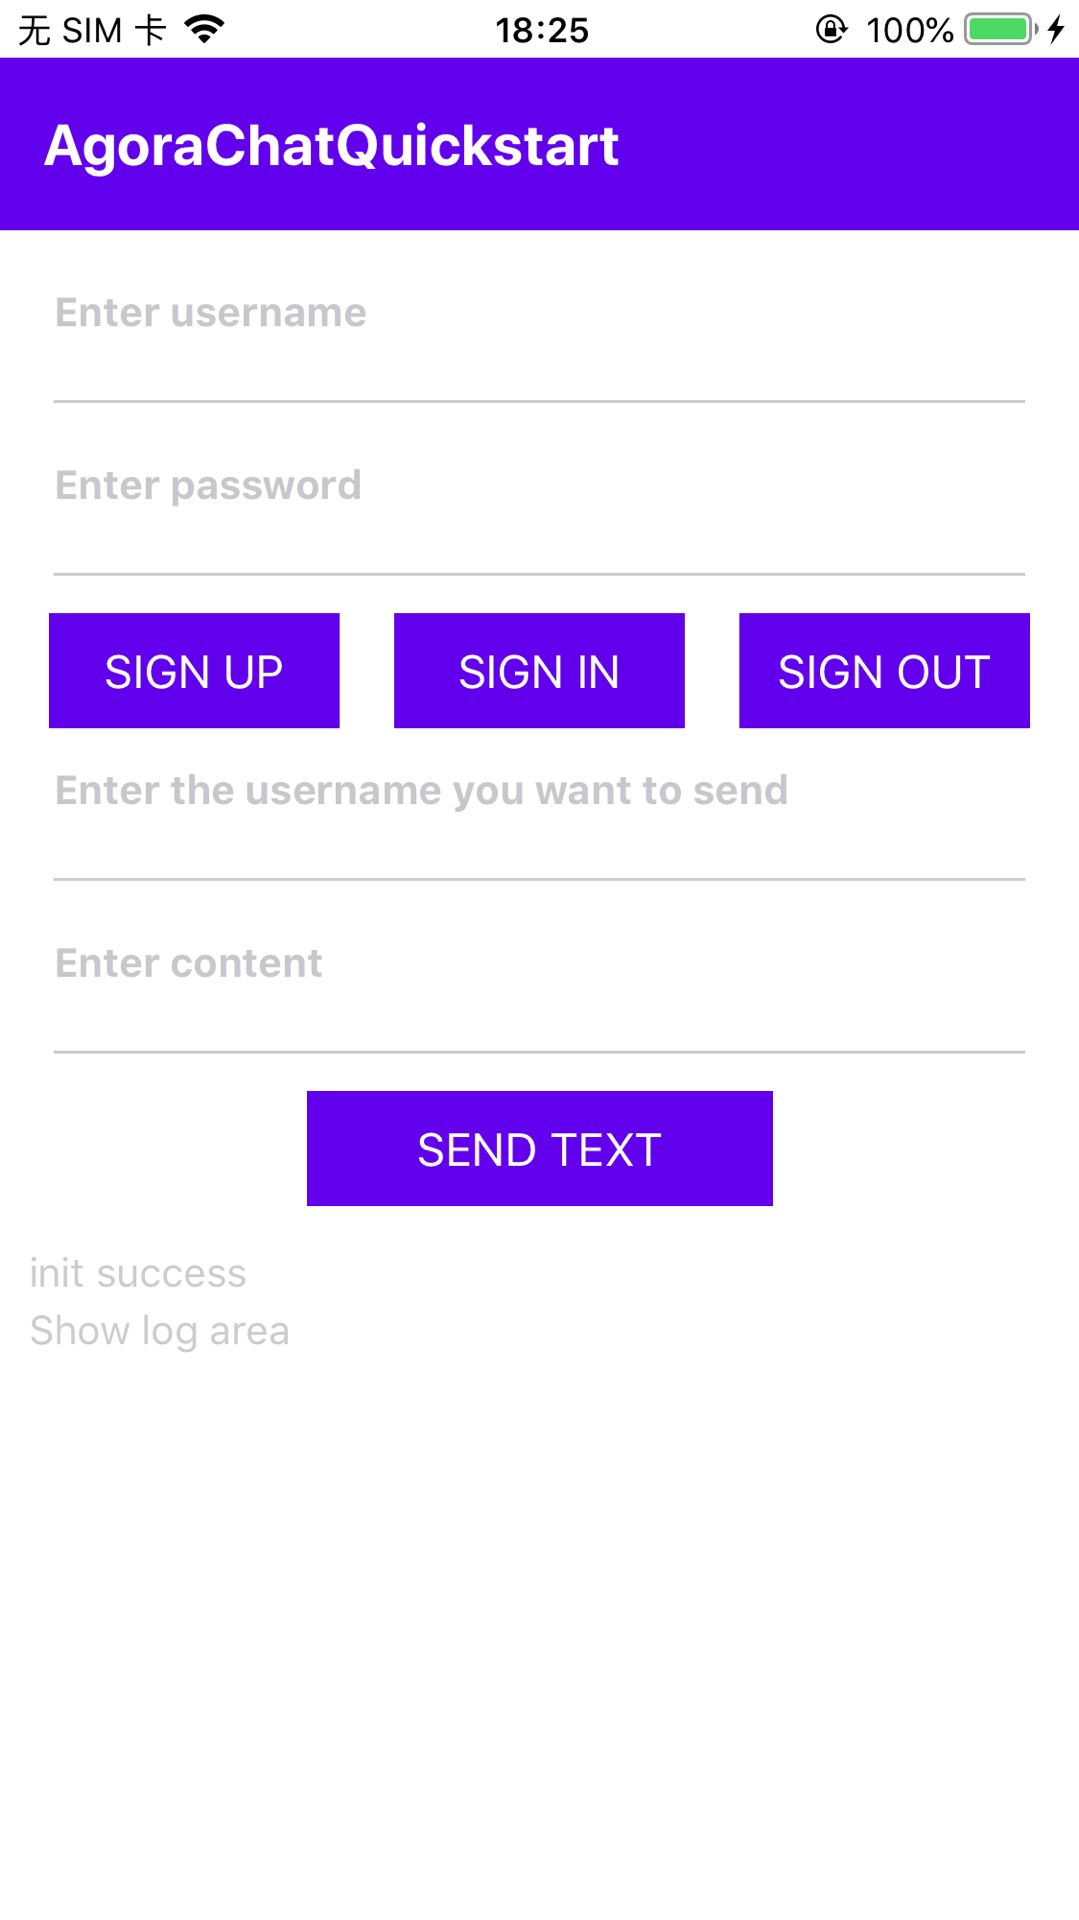
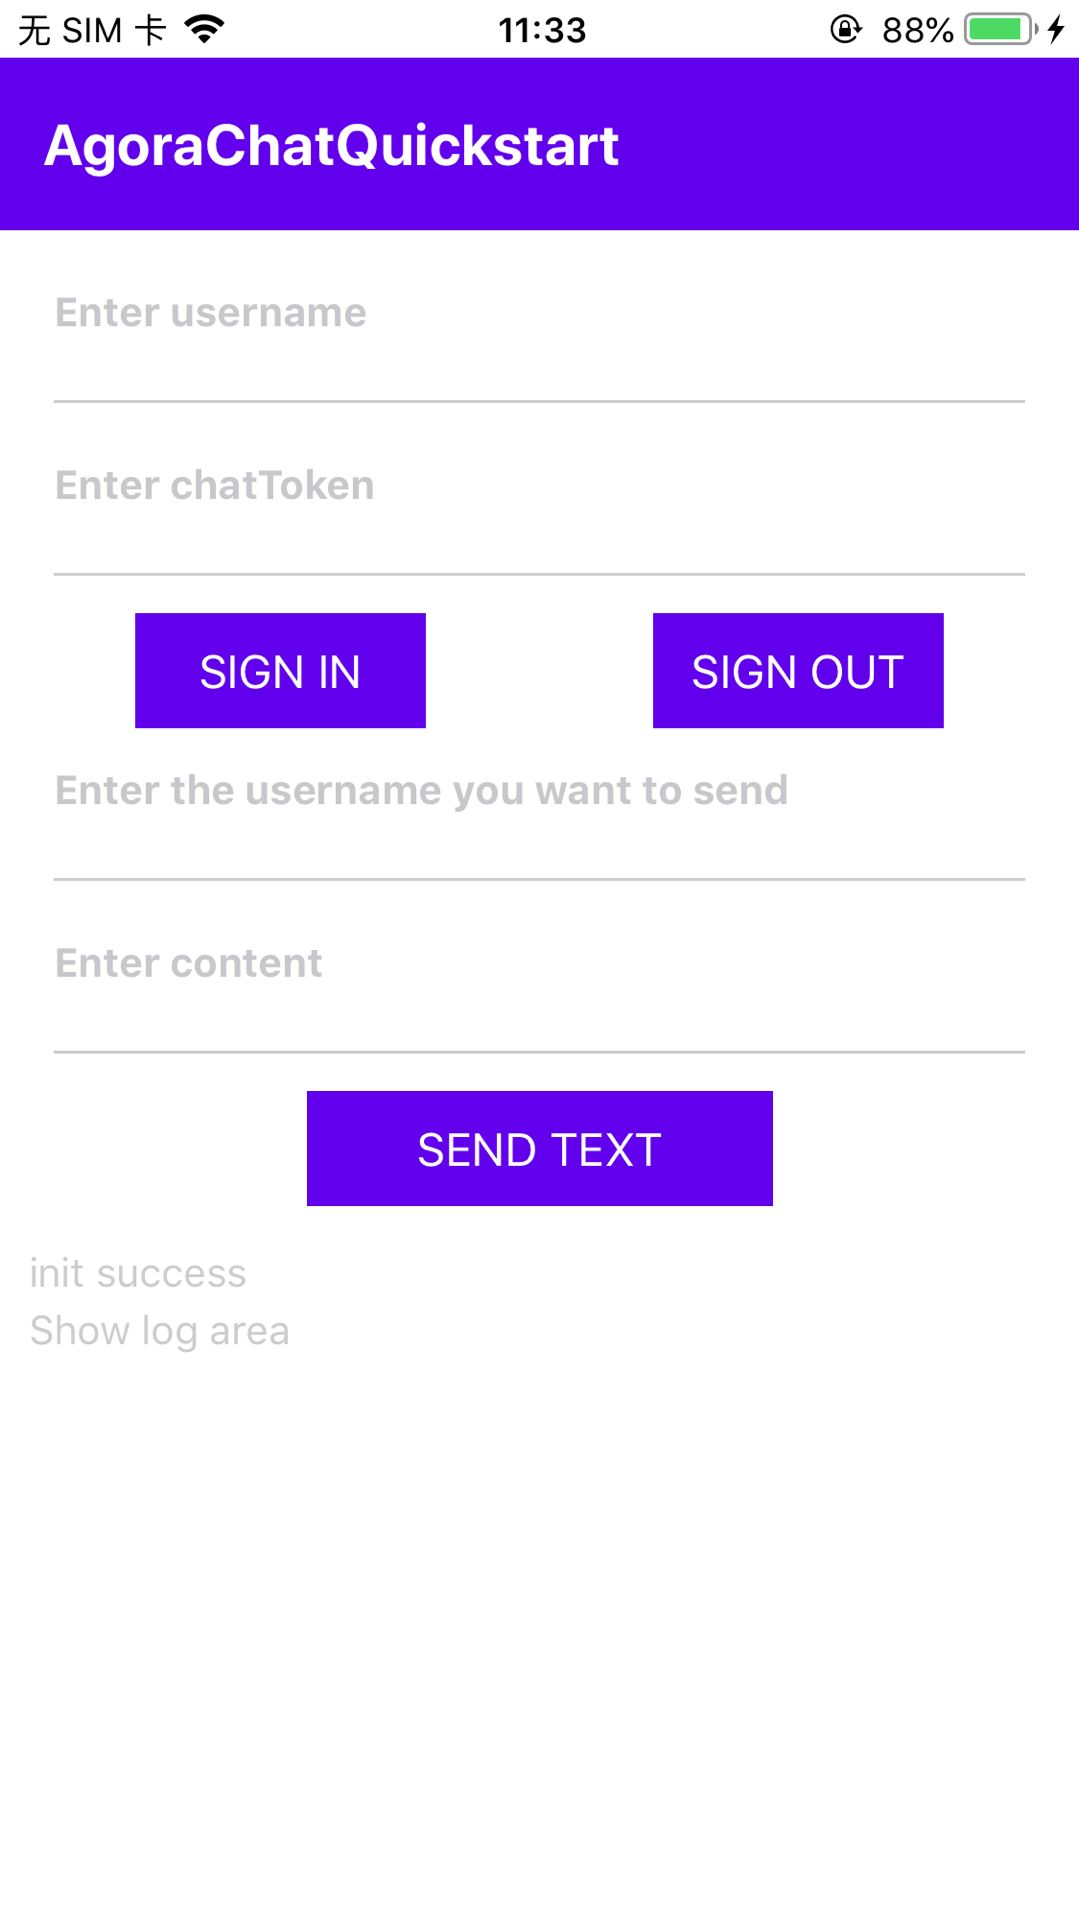
update rn quick start demo

diff --git a/Chat-RN/quick_start_demo/App.js b/Chat-RN/quick_start_demo/App.js
@@ -27,13 +27,10 @@ import {
 const App = () => {
   // The variable defines.
   const title = 'AgoraChatQuickstart';
-  const requestGetTokenUrl = 'https://a41.chat.agora.io/app/chat/user/login';
-  const requestRegistryAccountUrl =
-    'https://a41.chat.agora.io/app/chat/user/register';
   const appKey = '41117440#383391';
   const [username, setUsername] = React.useState('');
-  const [password, setPassword] = React.useState('');
-  const [userId, setUserId] = React.useState('');
+  const [chatToken, setChatToken] = React.useState('');
+  const [targetId, setTargetId] = React.useState('');
   const [content, setContent] = React.useState('');
   const [logText, setWarnText] = React.useState('Show log area');
   const chatClient = ChatClient.getInstance();
@@ -130,92 +127,20 @@ const App = () => {
     init();
   }, [chatClient, chatManager, appKey]);
 
-  const requestHttp = url => {
-    rollLog(`requestHttp: userAccount: ${username}, userPassword: ${password}`);
-    return fetch(url, {
-      method: 'POST',
-      headers: {
-        'Content-Type': 'application/json',
-      },
-      body: JSON.stringify({
-        userAccount: username,
-        userPassword: password,
-      }),
-    });
-  };
-  const requestGetToken = () => {
-    return requestHttp(requestGetTokenUrl);
-  };
-  const requestRegistryAccount = () => {
-    return requestHttp(requestRegistryAccountUrl);
-  };
-
-  // Register an account for login.
-  const registerAccount = () => {
-    if (this.isInitialized === false || this.isInitialized === undefined) {
-      rollLog('Perform initialization first.');
-      return;
-    }
-    rollLog('start register account ...');
-    requestRegistryAccount()
-      .then(response => {
-        response
-          .json()
-          .then(value => {
-            if (value.code === 'RES_OK') {
-              rollLog(
-                `register success: userName = ${username}, password = ${password}`,
-              );
-            } else {
-              rollLog('response token fail:' + JSON.stringify(value));
-            }
-          })
-          .catch(error => {
-            rollLog('response token fail:' + JSON.stringify(error));
-          });
-      })
-      .catch(error => {
-        rollLog('register fail: ' + JSON.stringify(error));
-      });
-  };
-
   // Log in with an account ID and token.
-  const loginWithToken = () => {
+  const login = () => {
     if (this.isInitialized === false || this.isInitialized === undefined) {
       rollLog('Perform initialization first.');
       return;
     }
-    rollLog('start request token ...');
-    requestGetToken()
-      .then(response => {
-        rollLog('request token success.');
-        response
-          .json()
-          .then(value => {
-            if (value.code === 'RES_OK') {
-              rollLog(
-                `response token success: username = ${username}, token = ${value.accessToken}`,
-              );
-              const token = value.accessToken;
-              rollLog('start login ...');
-              chatClient
-                .loginWithAgoraToken(username, token)
-                .then(() => {
-                  rollLog('login operation success.');
-                })
-                .catch(reason => {
-                  rollLog('login fail: ' + JSON.stringify(reason));
-                });
-            } else {
-              rollLog('response token fail:' + JSON.stringify(value));
-            }
-          })
-          .catch(error => {
-            rollLog('response token fail:' + JSON.stringify(error));
-          });
+    rollLog('start login ...');
+    chatClient
+      .loginWithAgoraToken(username, chatToken)
+      .then(() => {
+        rollLog('login operation success.');
       })
-      .catch(error => {
-        rollLog('request token fail: ' + JSON.stringify(error));
+      .catch(reason => {
+        rollLog('login fail: ' + JSON.stringify(reason));
       });
   };
 
@@ -243,7 +168,7 @@ const App = () => {
       return;
     }
     let msg = ChatMessage.createTextMessage(
-      userId,
+      targetId,
       content,
       ChatMessageChatType.PeerChat,
     );
@@ -289,16 +214,13 @@ const App = () => {
           <TextInput
             multiline
             style={styles.inputBox}
-            placeholder="Enter password"
-            onChangeText={text => setPassword(text)}
-            value={password}
+            placeholder="Enter chatToken"
+            onChangeText={text => setChatToken(text)}
+            value={chatToken}
           />
         </View>
         <View style={styles.buttonCon}>
-          <Text style={styles.eachBtn} onPress={registerAccount}>
-            SIGN UP
-          </Text>
-          <Text style={styles.eachBtn} onPress={loginWithToken}>
+          <Text style={styles.eachBtn} onPress={login}>
             SIGN IN
           </Text>
           <Text style={styles.eachBtn} onPress={logout}>
@@ -310,8 +232,8 @@ const App = () => {
             multiline
             style={styles.inputBox}
             placeholder="Enter the username you want to send"
-            onChangeText={text => setUserId(text)}
-            value={userId}
+            onChangeText={text => setTargetId(text)}
+            value={targetId}
           />
         </View>
         <View style={styles.inputCon}>

diff --git a/Chat-RN/quick_start_demo/README.md b/Chat-RN/quick_start_demo/README.md
@@ -6,7 +6,30 @@ _[中文](README.zh.md) | English_
 
 This repository contains example projects using the Agora Chat React-Native sdk.
 
-![rn main](./res/main.jpg)
+![main](./res/main.jpg)
+
+## Create a project
+
+1. Into console page [agora.io](https://console.agora.io).
+2. Into project management page.
+3. Create a project that name is `quick_start_demo`.
+   ![image](./res/1.png)
+   ![image](./res/2.png)
+   ![image](./res/3.png)
+
+## Register a user
+
+1. Into project configuration page.
+2. Into chat configuration page in features item.
+3. Create user in operation management item.
+   ![image](./res/4.png)
+
+## Generate a user token
+
+1. Into project configuration page.
+2. Into chat configuration page in features item.
+3. Generate temp token in basic information item.
+   ![image](./res/5.png)
 
 ## project structure
 

diff --git a/Chat-RN/quick_start_demo/README.zh.md b/Chat-RN/quick_start_demo/README.zh.md
@@ -6,7 +6,25 @@ _[English](README.md) | 中文_
 
 该仓库包含了使用 Agora Chat React-Native sdk 的示例项目。
 
-![rn main](../../Chat-RN/quick_start_demo/res/main.jpg)
+![main](./res/main.jpg)
+
+##创建一个项目
+
+1.进入控制台页面[agora.io](https://console.agora.io)。 2.进入项目管理页面。 3. 创建一个名为 `quick_start_demo` 的项目。
+![图片](./res/1.png)
+![图片](./res/2.png)
+![图片](./res/3.png)
+
+##注册一个用户
+
+1.进入项目配置页面。 2.进入功能项中的聊天配置页面。
+3、在运营管理项中创建用户。
+![图片](./res/4.png)
+
+## 生成用户令牌
+
+1.进入项目配置页面。 2.进入功能项中的聊天配置页面。 3.在基本信息项中生成临时令牌。
+![图片](./res/5.png)
 
 ## 项目结构
 
